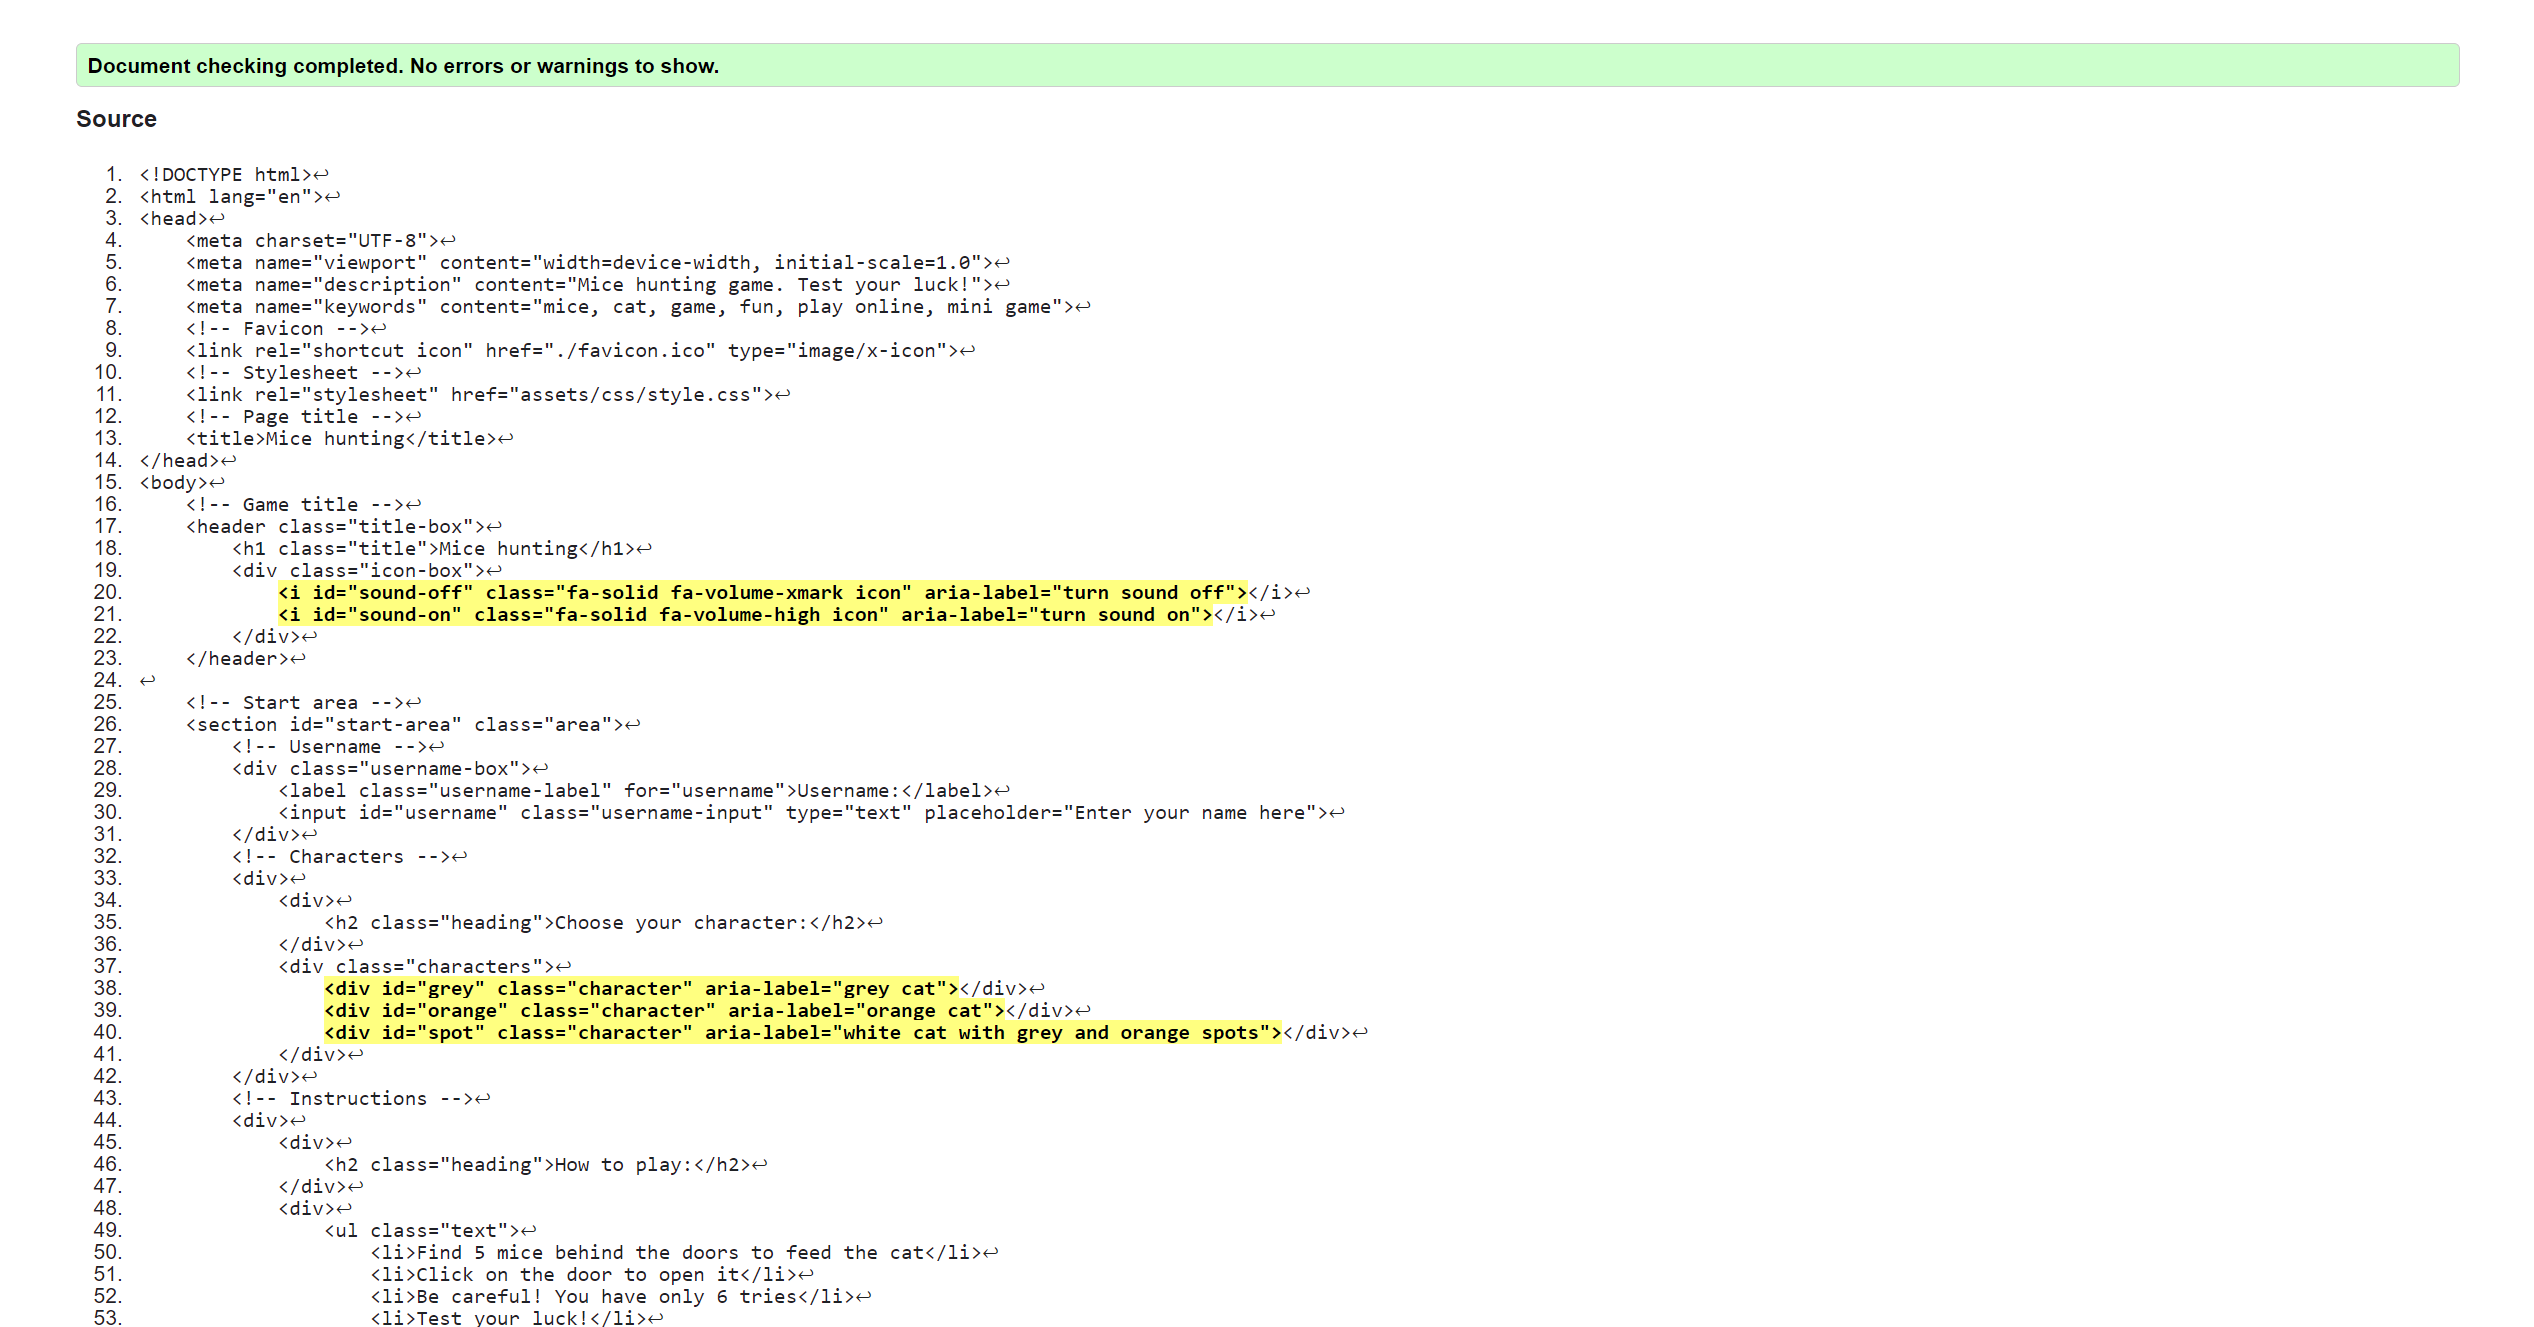
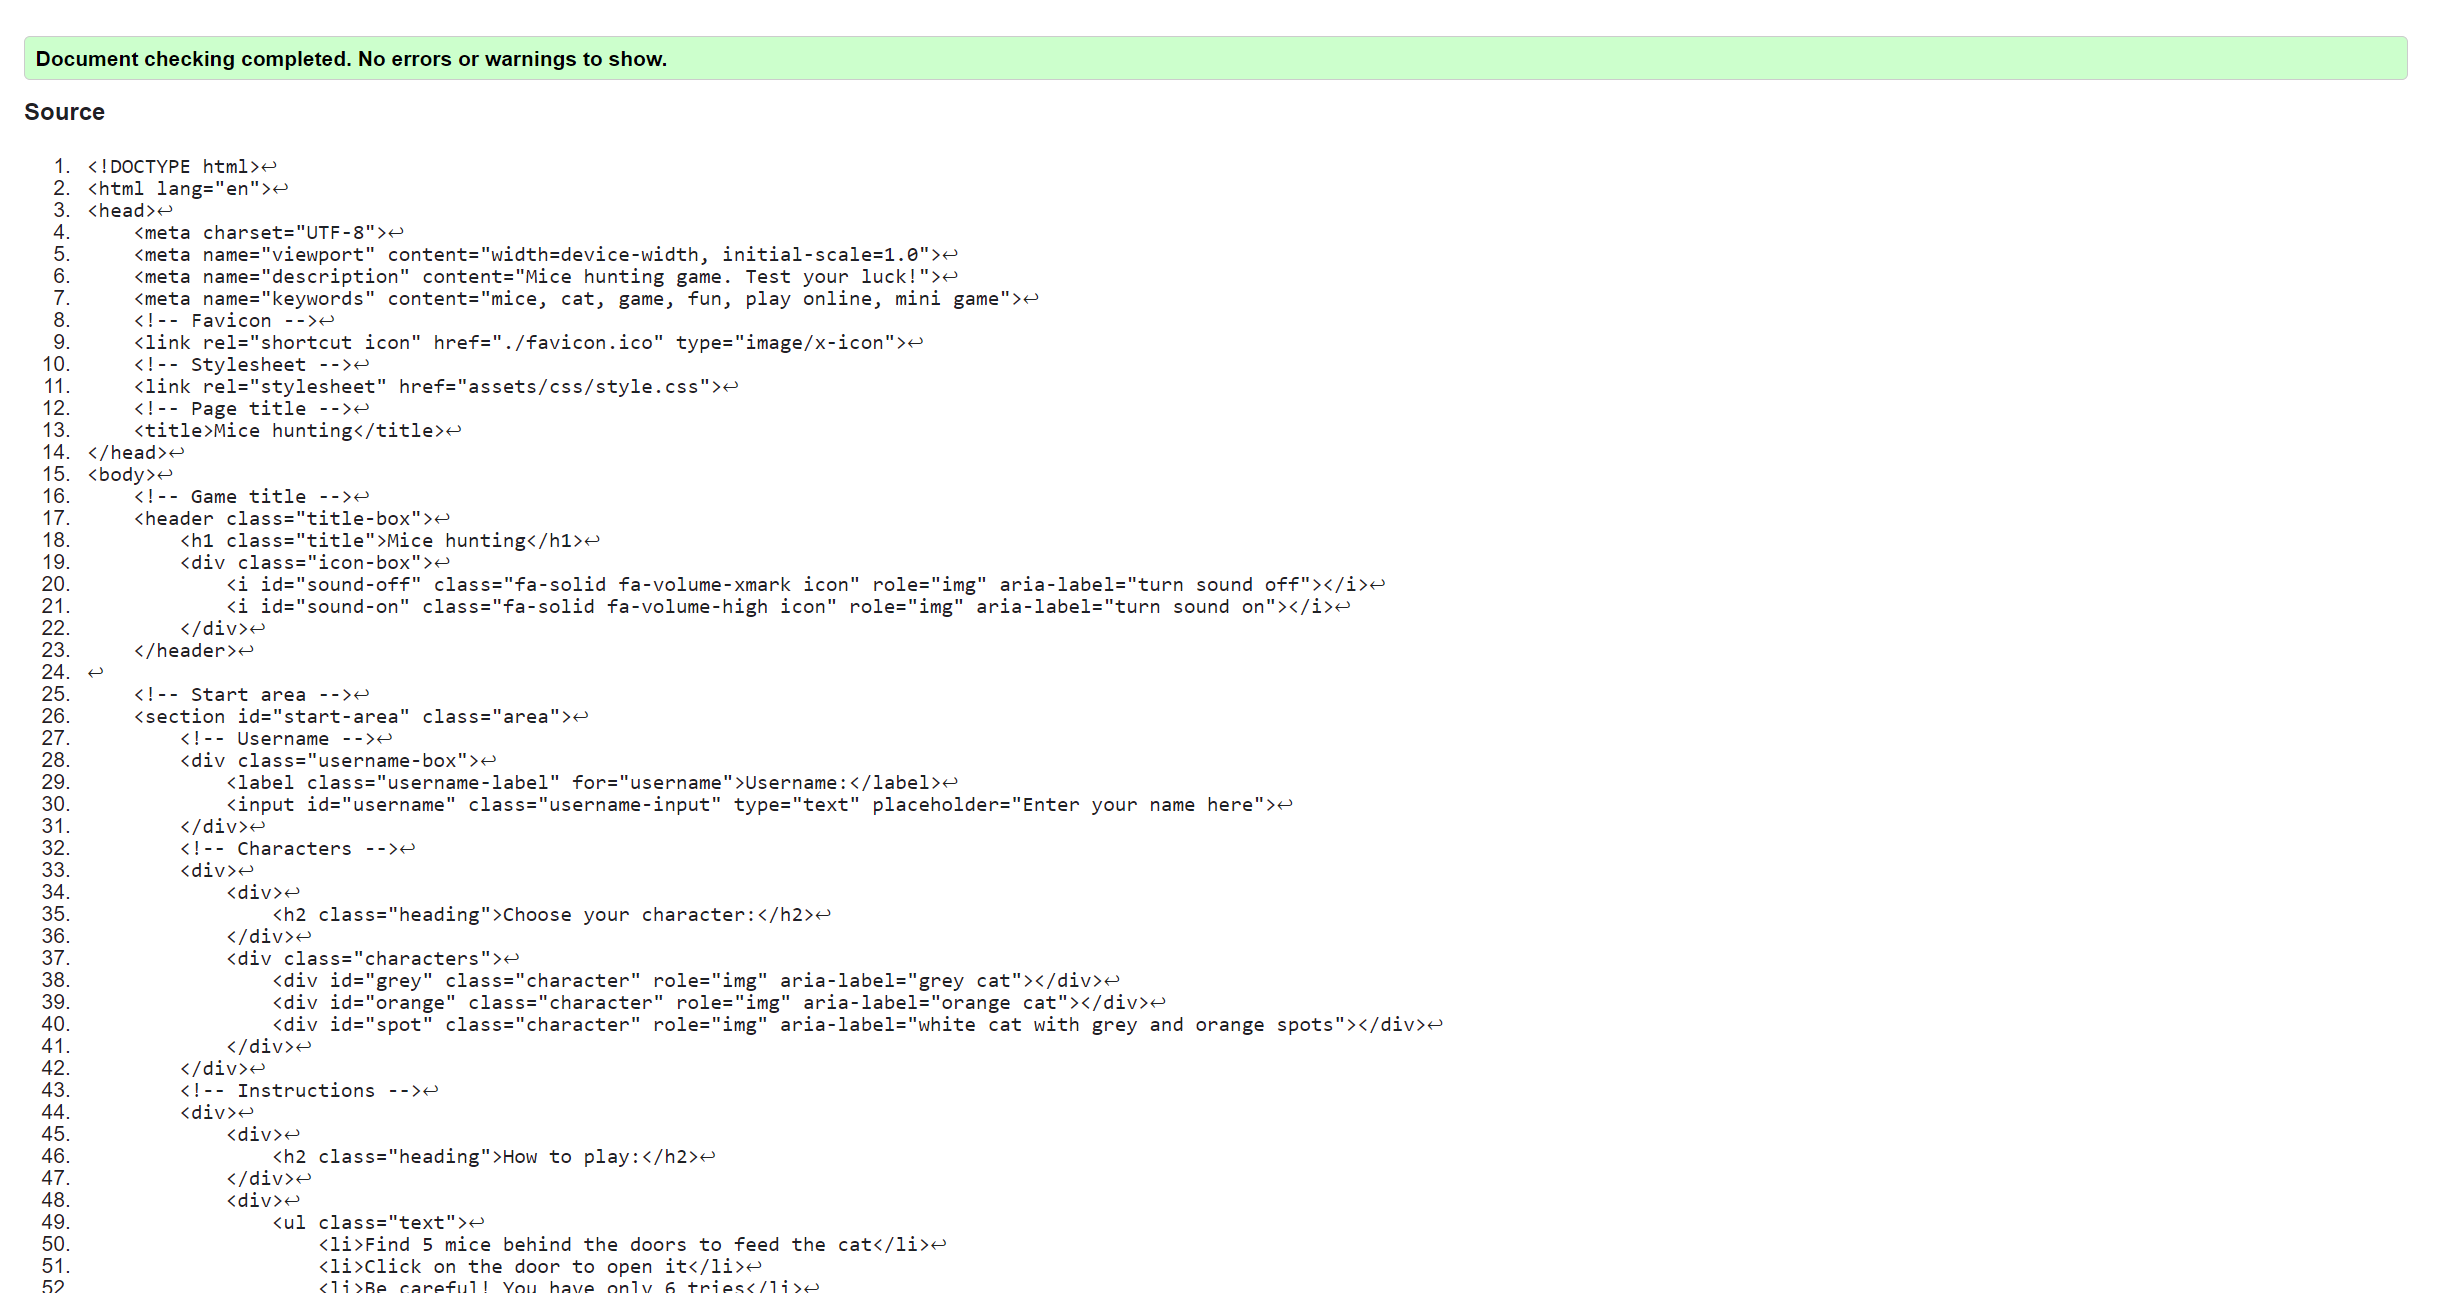
Update Readme, add functional testing, fix warnings in html

Changed region(s): [[0.0, 0.1237, 0.5877, 1.0], [0.0, 0.0309, 0.9589, 0.0928], [0.9589, 0.0309, 0.9898, 0.0619]]

diff --git a/index.html b/index.html
@@ -17,8 +17,8 @@
     <header class="title-box">
         <h1 class="title">Mice hunting</h1>
         <div class="icon-box">
-            <i id="sound-off" class="fa-solid fa-volume-xmark icon" aria-label="turn sound off"></i>
-            <i id="sound-on" class="fa-solid fa-volume-high icon" aria-label="turn sound on"></i>
+            <i id="sound-off" class="fa-solid fa-volume-xmark icon" role="img" aria-label="turn sound off"></i>
+            <i id="sound-on" class="fa-solid fa-volume-high icon" role="img" aria-label="turn sound on"></i>
         </div>
     </header>
 
@@ -35,9 +35,9 @@
                 <h2 class="heading">Choose your character:</h2>
             </div>
             <div class="characters">
-                <div id="grey" class="character" aria-label="grey cat"></div>
-                <div id="orange" class="character" aria-label="orange cat"></div>
-                <div id="spot" class="character" aria-label="white cat with grey and orange spots"></div>
+                <div id="grey" class="character" role="img" aria-label="grey cat"></div>
+                <div id="orange" class="character" role="img" aria-label="orange cat"></div>
+                <div id="spot" class="character" role="img" aria-label="white cat with grey and orange spots"></div>
             </div>
         </div>
         <!-- Instructions -->
@@ -66,7 +66,7 @@
             <!-- Informative part -->
             <div class="game-character-box">
                 <!-- Displayed character -->
-                <div id="game-area-character"></div>
+                <div id="game-area-character" role="img"></div>
                 <!-- Message -->
                 <div class="counts-parent">
                     <div class="message-background">
@@ -88,19 +88,19 @@
             <!-- Game field -->
             <div class="game-field-background">
                 <div class="row">
-                    <div data-attr="0" class="object" aria-label="orange door"></div>
-                    <div data-attr="1" class="object" aria-label="orange door"></div>
-                    <div data-attr="2" class="object" aria-label="orange door"></div>
+                    <div data-attr="0" class="object" role="img" aria-label="orange door"></div>
+                    <div data-attr="1" class="object" role="img" aria-label="orange door"></div>
+                    <div data-attr="2" class="object" role="img" aria-label="orange door"></div>
                 </div>
                 <div class="row">
-                    <div data-attr="3" class="object" aria-label="orange door"></div>
-                    <div data-attr="4" class="object" aria-label="orange door"></div>
-                    <div data-attr="5" class="object" aria-label="orange door"></div>
+                    <div data-attr="3" class="object" role="img" aria-label="orange door"></div>
+                    <div data-attr="4" class="object" role="img" aria-label="orange door"></div>
+                    <div data-attr="5" class="object" role="img" aria-label="orange door"></div>
                 </div>
                 <div class="row">
-                    <div data-attr="6" class="object" aria-label="orange door"></div>
-                    <div data-attr="7" class="object" aria-label="orange door"></div>
-                    <div data-attr="8" class="object" aria-label="orange door"></div>
+                    <div data-attr="6" class="object" role="img" aria-label="orange door"></div>
+                    <div data-attr="7" class="object" role="img" aria-label="orange door"></div>
+                    <div data-attr="8" class="object" role="img" aria-label="orange door"></div>
                 </div>
             </div>
         </div>
@@ -119,7 +119,7 @@
      <section id="result-area" class="area">
         <div class="column-layout">
             <!-- Displayed character -->
-            <div id="result-area-character">
+            <div id="result-area-character" role="img">
                 <!-- Message attached to the parent -->
                 <div class="message-background result-message-box">
                     <p id="result-area-message" class="text">Thank you for your help, username!</p>

diff --git a/README.md b/README.md
@@ -21,8 +21,13 @@ Live link [`Mice hunting`](https://vl-ocean.github.io/mice-huntung/)
 - It includes the instructions for the game.
 
  ### Design
-- Fonts: Caudex, Comfortaa
-- Colors: #BD6E2A orange, #221916 brown, #fff white; ![color](./README-images/color.png)
+- Fonts: Caudex, Comfortaa 
+
+![fonts](./README-images/fonts.png)
+
+- Colors: #BD6E2A orange, #221916 brown, #fff white; 
+
+![color](./README-images/color.png)
 
 
 ## Technologies Used 
@@ -106,6 +111,10 @@ The game has three areas: start area, game area and result area. The [start area
 ![exit button](./README-images/exit.png) 
  #### This button at game area and at result area provides the same functionality. It takes the user to the start area, it refreshes the username and character. The game can be started again, once the player is ready.
 
+  - ### 404 page
+![404 page](./README-images/404-page.png) 
+ #### It provides a user with click-on button. It takes the user to the start area of the game (home page of the website).
+
 
 ## Future features 
 - A wider variety of messages 
@@ -144,12 +153,9 @@ Microsoft Edge | &check;
 
 ### Validator Testing 
 - #### HTML
-  - [Overall validation](./README-images/html-validation.png)
-    - No errors or warnings to show. Except the warning "Possible misuse of aria-label".
-  - [Warning](./README-images/html-warning.png)
-    - The aria-label is used for the div containers which have background images. These images are the main game functionality. In order for the screen reader to see them and identify, I used aria-labels. 
+No errors or warnings to show.
+  - [Main page](./README-images/html-validation.png)
   - [404 page](./README-images/404-html-validation.png)
-    - No errors or warnings to show.
 - #### CSS
 No errors or warnings to show. (Except for the warning about imported Google Fonts "Imported style sheets are not checked in direct input and file upload modes")
   - [Overall result](./README-images/css-validation.png)
@@ -168,17 +174,52 @@ Using Google Lighthouse I confirmed that the website is readable and accessible.
 
 Action |  Expected result | Pass
 --- | --- | :---:
-Click | Open | &check;
+Enter the link "https://vl-ocean.github.io/mice-huntung/" in the address bar | Open the game start area | &check;
+Click on the "sound off" icon at top right corner | Change icon to "sound on", the sound is on | &check;
+Click on the "sound on" icon at top right corner | Change icon to "sound off", the sound is off | &check;
+Type in nothing in the username field and choose no character, click on start game button | Open message "Please enter your name" ([see](./README-images/enter-name.png)) | &check;
+Type in nothing in the username field but choose a character, click on start game button | Open message "Please enter your name" ([see](./README-images/enter-name.png)) | &check;
+Type in numbers in the username field, e.g. "123", click on start game button | Open message "Please use letters only" ([see](./README-images/use-letters.png)) | &check;
+Type in more than 20 characters in the username field, click on start game button | Open message "You can use up to 20 characters only" ([see](./README-images/20-only.png)) | &check;
+Type in the username, e.g. "George", do not select a character, click on start game button | Open message "Please choose a character" ([see](./README-images/no-character-selected.png)) | &check;
+Click on character | Highlight the selected character ([see](./README-images/character-selected.png)) | &check;
+Click on another character | Highlight the clicked character, deselect the previous character | &check;
+Type in the username, e.g. "George", and select a character, e.g. "grey cat", then click on start game button | Open game area. Display grey cat as a character and a message "Feed me, George" ([see](./README-images/feed-me.png)) | &check;
+Click on "Exit" button | Open start area | &check;
+Click on a door | Change image to mouse, increase score by one, reduce tries by one, display message "Excellent, George" | &check;
+Click on a door | Change image to empty, reduce tries by one, display message "Don't worry, George" | &check;
+Use the last try | Display the last choice result, then open result area | &check;
+Find 5 mice in a row (one try is left to use) | Open result area, display win result ([see](./README-images/display-win.png)) | &check;
+Use three tries, click on "Restart" button | Open new game area, ready for a new round ([see](./README-images/restart-clicked.png)) | &check;
+Click on the next door before the soundtrack of the previous one has ended | Stop the sound, new sound is played from the beginning | &check;
+Find four mice and two empties at game area | Open result area, display sad character, message "Better luck next time, George!" and the total score of 4 ([see](./README-images/display-loss.png)) | &check;
+Find 5 mice and 1 empty at game area | Open result area, display happy character, message "Well done, George!" and the total score of 5 ([see](./README-images/display-win.png)) | &check;
+Click on "Play again" button | Open new game area, ready for a new round ([see](./README-images/restart-clicked.png)) | &check;
+Enter broken link in the address bar | Open custom 404 page ([see](./README-images/broken-link.png)) | &check;
+Click on the character at start area, sound is on | Hear cat sound being played | &check;
+Click on the door, sound is on | Hear open-door sound being played | &check;
+Win game, sound is on | Hear win sound being played | &check;
+Lose game, sound is on | Hear loss sound being played | &check;
+Click on any button, sound is on | Hear click sound being played | &check;
+Click on the character at start area, sound is off | Hear no sound being played | &check;
+Click on the door, sound is off | Hear no sound being played | &check;
+Win game, sound is off | Hear no sound being played | &check;
+Lose game, sound is off | Hear no sound being played | &check;
+Click on any button, sound is off | Hear no sound being played | &check;
+
 
 ### Fixed Bugs
 
 - The assignCharacter function didn't work properly. The problem was in setting the background-image url and inserting it as a new style for the element. When looking through some tutorials (W3Schools, Stackoverflow), I have realised that I have set it wrong. I changed it to "url(" + chosenCharacter + ")", then I updated url in the object to "url('./assets/images/grey.webp')", so I can use a variable instead of concatenating and it worked perfectly this way.
-- 
+- All the variables were created using "let". Replaced the permmanent variables with "const".
+- Replaced the for..of function to forEach, since it fits the arrays better.
+- There is no control over the sound for the user. Added icons at top right corner and muted it by default. Now the user can turn the sound on if wants.
+- First two functions which add Event listeners to buttons and characters were too big and shown warnings in JSHint. I divided them into two smaller ones.
+- When validating the html, I got the warning ["Possible misuse of aria-label"](./README-images/html-warning.png). The aria-label was used for the div containers which have background images. These images are the main game functionality and the screen reader should see them and identify. The source https://www.w3schools.com/accessibility/accessibility_meaningful_images.php explains how to inform the browser that the particular image is important and should be read by the screen reader. I have added 'role="img"' next to aria-labels created before. No warnings has been discovered since.
 
 ### Unfixed Bugs
 
-- The validation of the username is set for letters and spaces (for example, "Tom Hank"). As a result the user may use only spaces as a name.
-- 
+- The validation of the username is set for letters and spaces (for example, "Tom Hank"). This will accept a name consisting only of spaces too.
 
 
 ## Deployment
